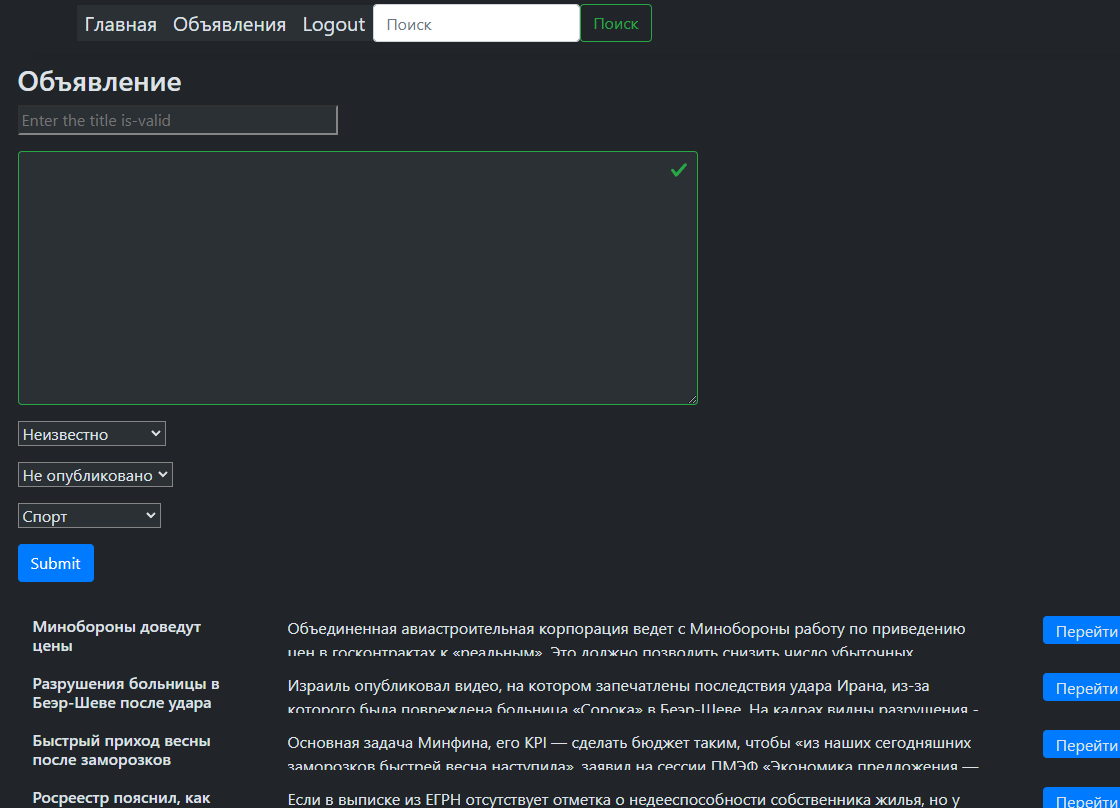
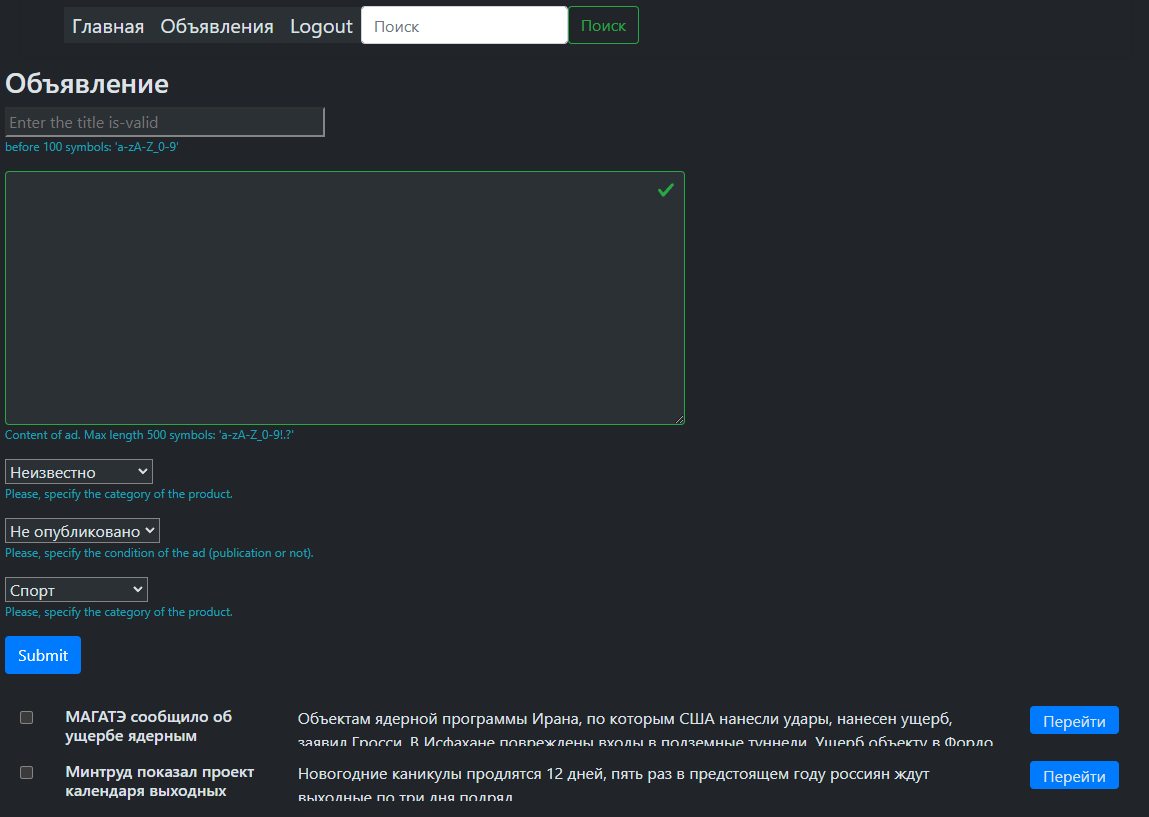
[dev]: static files updated and redis & cannels & daphne was installed

diff --git a/ads/static/ads/scripts/main-index-dc776ae2341fe91fb598.js b/ads/static/ads/scripts/main-index-dc776ae2341fe91fb598.js
@@ -105,7 +105,7 @@ eval("__webpack_require__.r(__webpack_exports__);\n/* harmony export */ __webpac
   \************************/
 /***/ ((__unused_webpack_module, __webpack_exports__, __webpack_require__) => {
 
-eval("__webpack_require__.r(__webpack_exports__);\n/* harmony import */ var _ADBS_handlers_HandlerFormAd__WEBPACK_IMPORTED_MODULE_0__ = __webpack_require__(/*! @ADBS-handlers/HandlerFormAd */ \"./src/ads/scripts/handlers/HandlerFormAd/index.ts\");\n/* harmony import */ var _ADS_scripts_services_taskPublicAllAd__WEBPACK_IMPORTED_MODULE_1__ = __webpack_require__(/*! @ADS/scripts/services/taskPublicAllAd */ \"./src/ads/scripts/services/taskPublicAllAd.ts\");\n/* harmony import */ var src_scripts_handleRequsetReceiveAd__WEBPACK_IMPORTED_MODULE_2__ = __webpack_require__(/*! src/scripts/handleRequsetReceiveAd */ \"./src/scripts/handleRequsetReceiveAd.ts\");\n/* harmony import */ var _ADS_scripts_services_taskPublicOnAd__WEBPACK_IMPORTED_MODULE_3__ = __webpack_require__(/*! @ADS/scripts/services/taskPublicOnAd */ \"./src/ads/scripts/services/taskPublicOnAd.ts\");\n/* harmony import */ var _ADS_scripts_services_taskChangeId__WEBPACK_IMPORTED_MODULE_4__ = __webpack_require__(/*! @ADS/scripts/services/taskChangeId */ \"./src/ads/scripts/services/taskChangeId.ts\");\n/* harmony import */ var _ADS_scripts_services_taskAddButton__WEBPACK_IMPORTED_MODULE_5__ = __webpack_require__(/*! @ADS/scripts/services/taskAddButton */ \"./src/ads/scripts/services/taskAddButton.ts\");\n/**\r\n * src\\scripts\\index.ts\r\n */\n\n\n\n\n// import deleteCheckboxOfAd from \"@ADS/scripts/services/taskDeleteCheckboxOfAdPage\";\n\n\nconst handlerCommmon = () => {\n  const formPagePromise = new Promise(resolve => {\n    (0,_ADBS_handlers_HandlerFormAd__WEBPACK_IMPORTED_MODULE_0__.formPage)();\n    resolve(true);\n  });\n\n  // publicAllAd - public all ads in HTML\n  const idName = 'ads-collections';\n  Promise.allSettled([(0,_ADS_scripts_services_taskChangeId__WEBPACK_IMPORTED_MODULE_4__.taskChangeIdDOM)(), formPagePromise, (0,_ADS_scripts_services_taskPublicAllAd__WEBPACK_IMPORTED_MODULE_1__[\"default\"])(), (0,src_scripts_handleRequsetReceiveAd__WEBPACK_IMPORTED_MODULE_2__.asyncGetListenerEvent)(\"click\", src_scripts_handleRequsetReceiveAd__WEBPACK_IMPORTED_MODULE_2__.asyncHandlerOneAdPublic, undefined, idName), (0,_ADS_scripts_services_taskPublicOnAd__WEBPACK_IMPORTED_MODULE_3__[\"default\"])(), (0,_ADS_scripts_services_taskAddButton__WEBPACK_IMPORTED_MODULE_5__[\"default\"])()]);\n\n  // deleteCheckboxOfAd\n};\ndocument.removeEventListener(\"DOMContentLoaded\", handlerCommmon);\ndocument.addEventListener(\"DOMContentLoaded\", handlerCommmon);\n\n//# sourceURL=webpack://ads/./src/ads/app.ts?");
+eval("__webpack_require__.r(__webpack_exports__);\n/* harmony import */ var _ADBS_handlers_HandlerFormAd__WEBPACK_IMPORTED_MODULE_0__ = __webpack_require__(/*! @ADBS-handlers/HandlerFormAd */ \"./src/ads/scripts/handlers/HandlerFormAd/index.ts\");\n/* harmony import */ var _ADS_scripts_services_taskPublicAllAd__WEBPACK_IMPORTED_MODULE_1__ = __webpack_require__(/*! @ADS/scripts/services/taskPublicAllAd */ \"./src/ads/scripts/services/taskPublicAllAd.ts\");\n/* harmony import */ var src_scripts_handleRequsetReceiveAd__WEBPACK_IMPORTED_MODULE_2__ = __webpack_require__(/*! src/scripts/handleRequsetReceiveAd */ \"./src/scripts/handleRequsetReceiveAd.ts\");\n/* harmony import */ var _ADS_scripts_services_taskPublicOnAd__WEBPACK_IMPORTED_MODULE_3__ = __webpack_require__(/*! @ADS/scripts/services/taskPublicOnAd */ \"./src/ads/scripts/services/taskPublicOnAd.ts\");\n/* harmony import */ var _ADS_scripts_services_taskChangeId__WEBPACK_IMPORTED_MODULE_4__ = __webpack_require__(/*! @ADS/scripts/services/taskChangeId */ \"./src/ads/scripts/services/taskChangeId.ts\");\n/**\r\n * src\\scripts\\index.ts\r\n */\n\n\n\n\n// import deleteCheckboxOfAd from \"@ADS/scripts/services/taskDeleteCheckboxOfAdPage\";\n\nconst handlerCommmon = () => {\n  const formPagePromise = new Promise(resolve => {\n    (0,_ADBS_handlers_HandlerFormAd__WEBPACK_IMPORTED_MODULE_0__.formPage)();\n    resolve(true);\n  });\n\n  // publicAllAd - public all ads in HTML\n  const idName = 'ads-collections';\n  Promise.allSettled([(0,_ADS_scripts_services_taskChangeId__WEBPACK_IMPORTED_MODULE_4__.taskChangeIdDOM)(), formPagePromise, (0,_ADS_scripts_services_taskPublicAllAd__WEBPACK_IMPORTED_MODULE_1__[\"default\"])(), (0,src_scripts_handleRequsetReceiveAd__WEBPACK_IMPORTED_MODULE_2__.asyncGetListenerEvent)(\"click\", src_scripts_handleRequsetReceiveAd__WEBPACK_IMPORTED_MODULE_2__.asyncHandlerOneAdPublic, undefined, idName), (0,_ADS_scripts_services_taskPublicOnAd__WEBPACK_IMPORTED_MODULE_3__[\"default\"])()]);\n\n  // deleteCheckboxOfAd\n};\ndocument.removeEventListener(\"DOMContentLoaded\", handlerCommmon);\ndocument.addEventListener(\"DOMContentLoaded\", handlerCommmon);\n\n//# sourceURL=webpack://ads/./src/ads/app.ts?");
 
 /***/ }),
 
@@ -149,13 +149,23 @@ eval("__webpack_require__.r(__webpack_exports__);\n/* harmony export */ __webpac
 
 /***/ }),
 
+/***/ "./src/ads/scripts/handlers/handlerDeleteLineOfAdsCollection/handlerEventRemove.ts":
+/*!*****************************************************************************************!*\
+  !*** ./src/ads/scripts/handlers/handlerDeleteLineOfAdsCollection/handlerEventRemove.ts ***!
+  \*****************************************************************************************/
+/***/ ((__unused_webpack_module, __webpack_exports__, __webpack_require__) => {
+
+eval("__webpack_require__.r(__webpack_exports__);\n/* harmony export */ __webpack_require__.d(__webpack_exports__, {\n/* harmony export */   handlerButtonClickEventRemove: () => (/* binding */ handlerButtonClickEventRemove)\n/* harmony export */ });\n/* harmony import */ var _ADS_scripts_services_tasksRemoveAds_getFlagId__WEBPACK_IMPORTED_MODULE_0__ = __webpack_require__(/*! @ADS/scripts/services/tasksRemoveAds/getFlagId */ \"./src/ads/scripts/services/tasksRemoveAds/getFlagId.ts\");\n/* harmony import */ var _ENV__WEBPACK_IMPORTED_MODULE_1__ = __webpack_require__(/*! @ENV */ \"./dotenv__.ts\");\n/**\r\n * src\\ads\\scripts\\handlers\\handlerDeleteLineOfAdsCollection\\handlerEventRemove.ts\r\n */\n\n\n\n\n/**\r\n * This  function is called when the user clicks on the button to remove the Ad of the collection\r\n * \r\n * @param item HTMLElement\r\n */\nfunction handlerButtonClickEventRemove(item) {\n  try {\n    const arrayOfIndexes = [];\n    item.onclick = async () => {\n      const arrayChoiseCheckbox = (0,_ADS_scripts_services_tasksRemoveAds_getFlagId__WEBPACK_IMPORTED_MODULE_0__[\"default\"])();\n      // REQUEST GET COLLECTION ADS\n      const url = new URL(\"\".concat(_ENV__WEBPACK_IMPORTED_MODULE_1__.URL_HOST_FOR_API, \"/api/v1/ads/index/0/\"));\n      // url.searchParams.set('data', JSON.stringify(arrayChoiseCheckbox))\n      const response = await fetch(url, {\n        method: \"DELETE\"\n      });\n      if (!response.ok) {\n        console.error(\"The Ads downloads data invalid!\");\n        return;\n      }\n      // RESEIVING RESPONS\n      // fetch(\"/ads\", {}\n    };\n  } catch (event) {\n    null;\n  }\n}\n\n//# sourceURL=webpack://ads/./src/ads/scripts/handlers/handlerDeleteLineOfAdsCollection/handlerEventRemove.ts?");
+
+/***/ }),
+
 /***/ "./src/ads/scripts/handlers/handlerDeleteLineOfAdsCollection/handlerRemoveAds.ts":
 /*!***************************************************************************************!*\
   !*** ./src/ads/scripts/handlers/handlerDeleteLineOfAdsCollection/handlerRemoveAds.ts ***!
   \***************************************************************************************/
 /***/ ((__unused_webpack_module, __webpack_exports__, __webpack_require__) => {
 
-eval("__webpack_require__.r(__webpack_exports__);\n/* harmony export */ __webpack_require__.d(__webpack_exports__, {\n/* harmony export */   handlerPressCheckboxRemoveAds: () => (/* binding */ handlerPressCheckboxRemoveAds)\n/* harmony export */ });\n/* harmony import */ var _services_taskAddButton__WEBPACK_IMPORTED_MODULE_0__ = __webpack_require__(/*! ../../services/taskAddButton */ \"./src/ads/scripts/services/taskAddButton.ts\");\n\nfunction handlerPressCheckboxRemoveAds() {\n  try {\n    const adsCollections = document.querySelector(\"#ads-collections\");\n    if (!adsCollections) {\n      return;\n    }\n    // publish button after click by a checkbox/flag (button for the removing an one ad)\n    adsCollections.removeEventListener(\"mousedown\", event => handlerAddButtonRemoveAds(event));\n    adsCollections.addEventListener(\"mousedown\", event => handlerAddButtonRemoveAds(event));\n  } catch (error) {\n    throw new Error(\"Error on the handlerPressCheckboxRemoveAds: \".concat(error));\n  }\n}\nlet ButtonTimeOut;\nfunction handlerAddButtonRemoveAds(event) {\n  if (event.target instanceof HTMLInputElement && event.target.name === \"remove\") {\n    if (ButtonTimeOut) {\n      clearTimeout(ButtonTimeOut);\n    }\n    ButtonTimeOut = setTimeout(_services_taskAddButton__WEBPACK_IMPORTED_MODULE_0__[\"default\"], 500);\n  }\n  ;\n}\n\n//# sourceURL=webpack://ads/./src/ads/scripts/handlers/handlerDeleteLineOfAdsCollection/handlerRemoveAds.ts?");
+eval("__webpack_require__.r(__webpack_exports__);\n/* harmony export */ __webpack_require__.d(__webpack_exports__, {\n/* harmony export */   handlerPressCheckboxRemoveAds: () => (/* binding */ handlerPressCheckboxRemoveAds)\n/* harmony export */ });\n/* harmony import */ var _services_tasksRemoveAds_taskAddButton__WEBPACK_IMPORTED_MODULE_0__ = __webpack_require__(/*! ../../services/tasksRemoveAds/taskAddButton */ \"./src/ads/scripts/services/tasksRemoveAds/taskAddButton.ts\");\n\nfunction handlerPressCheckboxRemoveAds() {\n  try {\n    const adsCollections = document.querySelector(\"#ads-collections\");\n    if (!adsCollections) {\n      return;\n    }\n    // publish button after click by a checkbox/flag (button for the removing an one ad)\n    adsCollections.removeEventListener(\"mousedown\", event => handlerAddButtonRemoveAds(event));\n    adsCollections.addEventListener(\"mousedown\", event => handlerAddButtonRemoveAds(event));\n  } catch (error) {\n    throw new Error(\"Error on the handlerPressCheckboxRemoveAds: \".concat(error));\n  }\n}\nlet ButtonTimeOut;\n\n/**\r\n * When user clicks by checkbox, the button for removing an would be published\r\n * @param event \r\n */\nfunction handlerAddButtonRemoveAds(event) {\n  if (event.target instanceof HTMLInputElement && event.target.name === \"remove\") {\n    if (ButtonTimeOut) {\n      clearTimeout(ButtonTimeOut);\n    }\n    const buttonHtmlItem = document.createElement('button');\n    ButtonTimeOut = setTimeout(() => (0,_services_tasksRemoveAds_taskAddButton__WEBPACK_IMPORTED_MODULE_0__[\"default\"])(buttonHtmlItem), 500);\n  }\n  ;\n}\n\n//# sourceURL=webpack://ads/./src/ads/scripts/handlers/handlerDeleteLineOfAdsCollection/handlerRemoveAds.ts?");
 
 /***/ }),
 
@@ -186,16 +196,6 @@ eval("__webpack_require__.r(__webpack_exports__);\n/* harmony export */ __webpac
 /***/ ((__unused_webpack_module, __webpack_exports__, __webpack_require__) => {
 
 eval("__webpack_require__.r(__webpack_exports__);\n/* harmony export */ __webpack_require__.d(__webpack_exports__, {\n/* harmony export */   asyncHandlerGetAdsCollection: () => (/* binding */ asyncHandlerGetAdsCollection)\n/* harmony export */ });\n/* harmony import */ var _ENV__WEBPACK_IMPORTED_MODULE_0__ = __webpack_require__(/*! @ENV */ \"./dotenv__.ts\");\n/* harmony import */ var _handlerDeleteLineOfAdsCollection_handlerRemoveAds__WEBPACK_IMPORTED_MODULE_1__ = __webpack_require__(/*! ../handlerDeleteLineOfAdsCollection/handlerRemoveAds */ \"./src/ads/scripts/handlers/handlerDeleteLineOfAdsCollection/handlerRemoveAds.ts\");\n/**\r\n * src\\scripts\\handlers\\handlersAdsCollection\\handlerRequestlCollection.ts\r\n * */\n\n\n\n/**\r\n * This function is download the collection of the ads from server.\r\n * @returns {data: AdLinesCollection} | void\r\n */\nasync function asyncHandlerGetAdsCollection() {\n  try {\n    // REQUEST GET COLLECTION ADS\n    const url = new URL(\"\".concat(_ENV__WEBPACK_IMPORTED_MODULE_0__.URL_HOST_FOR_API, \"/api/v1/ads/index/\"));\n    const response = await fetch(url, {\n      method: \"GET\"\n    });\n    if (!response.ok) {\n      console.error(\"The Ads downloads data invalid!\");\n      return;\n    }\n    // RESEIVING RESPONSE DATA IN JSON TYPE\n    const responseData = await response.json();\n    const data = JSON.parse(responseData);\n    (0,_handlerDeleteLineOfAdsCollection_handlerRemoveAds__WEBPACK_IMPORTED_MODULE_1__.handlerPressCheckboxRemoveAds)();\n    return data;\n  } catch (err) {\n    console.log(\"Error: \".concat(err.message));\n  }\n  return;\n}\n\n//# sourceURL=webpack://ads/./src/ads/scripts/handlers/handlersAdsCollection/handlerRequestlCollection.ts?");
-
-/***/ }),
-
-/***/ "./src/ads/scripts/services/taskAddButton.ts":
-/*!***************************************************!*\
-  !*** ./src/ads/scripts/services/taskAddButton.ts ***!
-  \***************************************************/
-/***/ ((__unused_webpack_module, __webpack_exports__, __webpack_require__) => {
-
-eval("__webpack_require__.r(__webpack_exports__);\n/* harmony export */ __webpack_require__.d(__webpack_exports__, {\n/* harmony export */   \"default\": () => (__WEBPACK_DEFAULT_EXPORT__)\n/* harmony export */ });\n/**\r\n * src\\ads\\scripts\\services\\taskAddButton.ts\r\n */\n\n/**\r\n * This task add the button (the delete) when the user has choices checkbox selected.\r\n * @returns \r\n */\nconst taskAddButton = () => {\n  const buttonHtmlItem = document.createElement('button');\n  buttonHtmlItem.innerHTML = 'Удалить';\n  buttonHtmlItem.className = 'delete-button';\n  const idAdsCollection = document.getElementById('ads-collections');\n  if (!idAdsCollection) {\n    return;\n  }\n  try {\n    // Checking, would be the button is inserted earlier or not\n    const ArrayButtonHtmlElement = idAdsCollection.getElementsByClassName(\"delete-button\");\n\n    // CHECK THE LINE OF AD, we have a select checkbox or not\n    const choiseCheckbox = [];\n    const arrayLiHtml = document.querySelectorAll(\"#ads-collections li input\");\n    arrayLiHtml.forEach(item => {\n      if (item.checked) {\n        choiseCheckbox.push(item);\n      }\n    });\n    if (choiseCheckbox.length === 0) {\n      // const buttonHtmlElement = idAdsCollection.getElementsByClassName(\"delete-button\");\n      if (ArrayButtonHtmlElement.length > 0) {\n        ArrayButtonHtmlElement[0].remove();\n      }\n      return;\n    }\n    if (ArrayButtonHtmlElement.length === 0) {\n      idAdsCollection.appendChild(buttonHtmlItem);\n    }\n  } catch (event) {\n    throw new Error(\"[Error in taskAddButton]: \".concat(event));\n  }\n};\n/* harmony default export */ const __WEBPACK_DEFAULT_EXPORT__ = (taskAddButton);\n\n//# sourceURL=webpack://ads/./src/ads/scripts/services/taskAddButton.ts?");
 
 /***/ }),
 
@@ -236,6 +236,26 @@ eval("__webpack_require__.r(__webpack_exports__);\n/* harmony export */ __webpac
 /***/ ((__unused_webpack_module, __webpack_exports__, __webpack_require__) => {
 
 eval("__webpack_require__.r(__webpack_exports__);\n/* harmony export */ __webpack_require__.d(__webpack_exports__, {\n/* harmony export */   \"default\": () => (__WEBPACK_DEFAULT_EXPORT__)\n/* harmony export */ });\n/* harmony import */ var src_ads_scripts_services_taskCreateOneElement__WEBPACK_IMPORTED_MODULE_0__ = __webpack_require__(/*! src/ads/scripts/services/taskCreateOneElement */ \"./src/ads/scripts/services/taskCreateOneElement.ts\");\n/* harmony import */ var src_ads_scripts_handlers_handlerSingleAd_handlerGetOneAd__WEBPACK_IMPORTED_MODULE_1__ = __webpack_require__(/*! src/ads/scripts/handlers/handlerSingleAd/handlerGetOneAd */ \"./src/ads/scripts/handlers/handlerSingleAd/handlerGetOneAd.ts\");\n/**\r\n * src\\scripts\\services\\taskPublicOnAd.ts\r\n */\n\n\n\nconst asyncTaskPublicOneAd = async () => {\n  // GET ID OF AD FROM THE URL\n  const pathname = window.location.pathname;\n  const index = pathname.split(\"/\")[4];\n  if (!index) {\n    return;\n  }\n  // GET DATA OF AD FROM THE SERVER\n  const response = await (0,src_ads_scripts_handlers_handlerSingleAd_handlerGetOneAd__WEBPACK_IMPORTED_MODULE_1__.asyncHandlerRequestGetOneAd)('/api/v1/ads/index/', index);\n  if (!response) {\n    console.error(\"The received data from server is invalid!\");\n    return;\n  }\n  const sectionHtml = document.getElementById(\"ad-page-container\");\n  if (!sectionHtml) {\n    console.error(\"The section HTML is invalid!\");\n    return;\n  }\n  // PUBLIC AD ON AD PAGE\n  (0,src_ads_scripts_services_taskCreateOneElement__WEBPACK_IMPORTED_MODULE_0__[\"default\"])(sectionHtml, response.data[0]);\n  const buttonHtml = document.querySelector(\".ad-view-footer button\");\n  if (!buttonHtml) {\n    return;\n  }\n  buttonHtml.remove();\n};\n/* harmony default export */ const __WEBPACK_DEFAULT_EXPORT__ = (asyncTaskPublicOneAd);\n\n//# sourceURL=webpack://ads/./src/ads/scripts/services/taskPublicOnAd.ts?");
+
+/***/ }),
+
+/***/ "./src/ads/scripts/services/tasksRemoveAds/getFlagId.ts":
+/*!**************************************************************!*\
+  !*** ./src/ads/scripts/services/tasksRemoveAds/getFlagId.ts ***!
+  \**************************************************************/
+/***/ ((__unused_webpack_module, __webpack_exports__, __webpack_require__) => {
+
+eval("__webpack_require__.r(__webpack_exports__);\n/* harmony export */ __webpack_require__.d(__webpack_exports__, {\n/* harmony export */   \"default\": () => (__WEBPACK_DEFAULT_EXPORT__)\n/* harmony export */ });\n/**\r\n * src\\ads\\scripts\\services\\tasksRemoveAds\\getFlagId.ts\r\n */\n\n/***\r\n * This function gather all the flag/checkboxes.\r\n * After this, we have array of the highlighted flage.\r\n * @return {string[]} - array of ctrings\r\n */\nfunction taskGetFlagId() {\n  // CHECK THE LINE OF AD, we have a select checkbox or not\n  const choiseCheckbox = [];\n  try {\n    const arrayLiHtml = document.querySelectorAll(\"#ads-collections li input\");\n    // FILTER OF CHECKBOX\n    arrayLiHtml.forEach(item => {\n      if (item.checked) {\n        choiseCheckbox.push(item.getAttribute('data-ad'));\n      }\n    });\n  } catch (error) {\n    if (error) {\n      throw new Error(\"[Error in getFlagId]: \".concat(error));\n    }\n  }\n  return choiseCheckbox;\n}\n/* harmony default export */ const __WEBPACK_DEFAULT_EXPORT__ = (taskGetFlagId);\n\n//# sourceURL=webpack://ads/./src/ads/scripts/services/tasksRemoveAds/getFlagId.ts?");
+
+/***/ }),
+
+/***/ "./src/ads/scripts/services/tasksRemoveAds/taskAddButton.ts":
+/*!******************************************************************!*\
+  !*** ./src/ads/scripts/services/tasksRemoveAds/taskAddButton.ts ***!
+  \******************************************************************/
+/***/ ((__unused_webpack_module, __webpack_exports__, __webpack_require__) => {
+
+eval("__webpack_require__.r(__webpack_exports__);\n/* harmony export */ __webpack_require__.d(__webpack_exports__, {\n/* harmony export */   \"default\": () => (__WEBPACK_DEFAULT_EXPORT__)\n/* harmony export */ });\n/* harmony import */ var _ADS_scripts_handlers_handlerDeleteLineOfAdsCollection_handlerEventRemove__WEBPACK_IMPORTED_MODULE_0__ = __webpack_require__(/*! @ADS/scripts/handlers/handlerDeleteLineOfAdsCollection/handlerEventRemove */ \"./src/ads/scripts/handlers/handlerDeleteLineOfAdsCollection/handlerEventRemove.ts\");\n/* harmony import */ var _getFlagId__WEBPACK_IMPORTED_MODULE_1__ = __webpack_require__(/*! ./getFlagId */ \"./src/ads/scripts/services/tasksRemoveAds/getFlagId.ts\");\n/**\r\n * src\\ads\\scripts\\services\\taskAddButton.ts\r\n */\n\n\n\n\n/**\r\n * This task add the button (the delete) when the user has choices checkbox selected.\r\n * @param {HTMLButtonElement} buttonHtmlItem. We created the button html elementand and give to the entry-point. It's 'buttonHtmlItem' variable.\r\n * @returns void\r\n */\nconst taskAddButton = buttonHtmlItem => {\n  buttonHtmlItem.innerHTML = 'Удалить';\n  buttonHtmlItem.className = 'delete-button';\n  const idAdsCollection = document.getElementById('ads-collections');\n  if (!idAdsCollection) {\n    return;\n  }\n  try {\n    // Checking, would be the button is inserted earlier or not\n    const arrayButtonHtmlElement = idAdsCollection.getElementsByClassName(\"delete-button\");\n    // Getitng the highlighted checkboxes \n    const arrayChoiseCheckbox = (0,_getFlagId__WEBPACK_IMPORTED_MODULE_1__[\"default\"])();\n    if (arrayChoiseCheckbox.length === 0) {\n      // const buttonHtmlElement = idAdsCollection.getElementsByClassName(\"delete-button\");\n      if (arrayButtonHtmlElement.length > 0) {\n        arrayButtonHtmlElement[0].remove();\n      }\n      return;\n    }\n    if (arrayButtonHtmlElement.length === 0) {\n      (0,_ADS_scripts_handlers_handlerDeleteLineOfAdsCollection_handlerEventRemove__WEBPACK_IMPORTED_MODULE_0__.handlerButtonClickEventRemove)(buttonHtmlItem);\n      idAdsCollection.appendChild(buttonHtmlItem);\n    }\n  } catch (event) {\n    throw new Error(\"[Error in taskAddButton]: \".concat(event));\n  }\n};\n/* harmony default export */ const __WEBPACK_DEFAULT_EXPORT__ = (taskAddButton);\n\n//# sourceURL=webpack://ads/./src/ads/scripts/services/tasksRemoveAds/taskAddButton.ts?");
 
 /***/ }),
 

diff --git a/project/settings.py b/project/settings.py
@@ -38,6 +38,7 @@ ALLOWED_HOSTS = [
 ]
 
 INSTALLED_APPS = [
+    "daphne",
     'django.contrib.admin',
     'rest_framework',
     'bootstrap4',
@@ -90,8 +91,8 @@ TEMPLATES = [
     },
 ]
 
-WSGI_APPLICATION = 'project.wsgi.application'
-
+# WSGI_APPLICATION = 'project.wsgi.application'
+ASGI_APPLICATION = "project.asgi.application"
 
 # Database
 # https://docs.djangoproject.com/en/4.2/ref/settings/#databases
@@ -306,4 +307,31 @@ SIMPLE_JWT = {
     "ACCESS_TOKEN_LIFETIME": timedelta(minutes = 5),
     "REFRESH_TOKEN_LIFETIME": timedelta(days=1),
     "SIGNING_KEY": SECRET_KEY,
+}
+
+
+#"""REDIS"""
+"""REDIS"""
+CACHES = {
+    "default": {
+        "BACKEND": "django_redis.cache.RedisCache",
+        "LOCATION": "redis://127.0.0.1:6379/0",  # 1 - номер базы Redis
+        "OPTIONS": {
+            "CLIENT_CLASS": "django_redis.client.DefaultClient",
+            "SOCKET_CONNECT_TIMEOUT": 5,  # seconds
+            "SOCKET_TIMEOUT": 5,  # seconds
+        },
+        "KEY_PREFIX": "server_",  # префикс для всех ключей
+
+    }
+}
+
+# Необязательно: использовать Redis для хранения сессий
+SESSION_ENGINE = "django.contrib.sessions.backends.cache"
+SESSION_CACHE_ALIAS = "default"
+
+"""DEBUG TOOLBAR daphne"""
+
+DEBUG_TOOLBAR_CONFIG = {
+    "SHOW_TOOLBAR_CALLBACK": lambda request: True,
 }

diff --git a/ads/api_views/api_ads.py b/ads/api_views/api_ads.py
@@ -4,9 +4,11 @@ ads/api_views/api_ads.py
 
 import json
 import logging
-from asgiref.sync import sync_to_async
+from asgiref.sync import sync_to_async, async_to_sync
+from django.db.models.expressions import result
 from django.http import JsonResponse
 from pontos.github.models import User
+from rest_framework.decorators import action
 
 from ads.api_views.api_files import async_serializer_validate
 from ads.serialisers_all.ad.serializers import AdSerializer
@@ -124,6 +126,12 @@ class AsyncAdsView(viewsets.ModelViewSet):
             json.dumps({"detail": ["User is not authenticated or pk is undefined."]}),
             status=status.HTTP_401_UNAUTHORIZED,
         )
+
+    async def destroy(self, request, *args, **kwargs):
+        pass
+        instance = await self.get_object()
+        responce = await super().destroy(request, *args, **kwargs)
+        return responce
 
     async def create(self, request, *args, **kwargs):
         """

diff --git a/ads/api_views/api_ads_delete.py b/ads/api_views/api_ads_delete.py
@@ -1,0 +1,19 @@
+from adrf import generics
+
+from ads.models import Ad
+from ads.serialisers_all.ad.serializers import AdSerializer
+
+
+class AsyncAdsDelete(generics.DestroyAPIView):
+    queryset = Ad.objects.all()
+    serializer_class = AdSerializer
+
+    # async def get_extra_actions(self):
+    #     return
+    async def destroy(self, request, *args, **kwargs):
+        pass
+        # if request.user.is_authenticated:
+        #     pass
+        # else:
+        #     return Response(status=status.HTTP_401_UNAUTHORIZED)
+        return self.destroy(request, *args, **kwargs)

diff --git a/ads/api_urls.py b/ads/api_urls.py
@@ -6,6 +6,7 @@ from rest_framework.routers import DefaultRouter
 
 # https://www.django-rest-framework.org/tutorial/6-viewsets-and-routers/#using-routers
 from ads.api_views.api_ads import AsyncAdsView
+from ads.api_views.api_ads_delete import AsyncAdsDelete
 from ads.api_views.api_files import FileImageViewSet
 
 
@@ -13,4 +14,5 @@ app_name = "ads_app"
 
 router = DefaultRouter()
 router.register("index", AsyncAdsView, basename="ads")
+# router.register("remove", AsyncAdsDelete, basename="ads_delete")
 router.register("image", FileImageViewSet, basename="image")

diff --git a/project/asgi.py b/project/asgi.py
@@ -9,8 +9,16 @@ https://docs.djangoproject.com/en/4.2/howto/deployment/asgi/
 
 import os
 
+from channels.routing import ProtocolTypeRouter
 from django.core.asgi import get_asgi_application
 
-os.environ.setdefault('DJANGO_SETTINGS_MODULE', 'project.settings')
+os.environ.setdefault("DJANGO_SETTINGS_MODULE", "project.settings")
 
 application = get_asgi_application()
+
+application = ProtocolTypeRouter(
+    {
+        "http": application,
+        # Just HTTP for now. (We can add other protocols later.)
+    }
+)

diff --git a/README.md b/README.md
@@ -1,4 +1,5 @@
 [ENG README](./README_ENG.md)
+
 # Зависимости:
 
 ```tx
@@ -53,6 +54,7 @@ You can, now:
 Логин Sergey\
 Пароль 123456789
 
+---
 # Доска объявлений
 Работа - по мере поступления задачи.\
 [Frontend](https://github.com/Tryd0g0lik/adboard_frotend)\
@@ -61,6 +63,7 @@ Backend делится на моддули:
 - пользователь (adboard для регистрации, активации);
 - создать объявлеие, видеть созданное объявление в списке объявлений, открыть объявление в отдельной странице.
 
+---
 ## Ограничения
 К базовым командам django:
 ```bash
@@ -101,9 +104,11 @@ permissions = [
 - "`project/user_of_request.py`" класс "`UsageUsers`" по "`request.user.id`" получает пользователя из db.
 Если всё  ОК , то данные идут дальше по "`ads/api_views/api_ads.py::AsyncAdsView.create`"
 
+---
 ### Пользователь
 - формы пользователя c валидацией в которые включают регулярные выражения (frontend). 
 
+---
 #### Login форма
 
 Отправляем на сервер\ 
@@ -116,9 +121,11 @@ permissions = [
 ```
 Пароль пользователя - хешируем.
 
+---
 ### Главная
 ![Main](./img/main.png)
 
+---
 ### Регистрация
 
 ![Registration](./img/register.png)\
@@ -126,6 +133,7 @@ permissions = [
 На сервере проверяется пароль, в состоянии хеша.\
 В ответе получаем 201 или 401 код.
 
+---
 ### Авторизация
 
 Если в форму вносим не валидные  данные, получаем ошибку\
@@ -140,6 +148,7 @@ permissions = [
 ```
 Токены сохраняются в COOKIE, без права вызова через JS.
 
+---
 ### После авторизации
 Пользователь происходит рендерится на главную страницу.\
 Меню получает дополнительные кнопки и форма поиска.\
@@ -149,6 +158,7 @@ Note: Поиск не рабочий.
 
 Путешествие по сервису сопровождается токенами из COOKIE.
 
+---
 ### Объявления*
 Загрузка страницы создает список объявлений. Список:
  - доступен пользователю если авторизован
@@ -163,11 +173,15 @@ Note: Поиск не рабочий.
 
 Note: Чат не рабочий
 
+Если выделить строку флагом, получаем кнопку - удалить (объявления).\
+Убрать все флажки, и кнопка - удалить исчезает.\
+![remove_button](./img/remove_button.png)
+
+---
 ## DB
 ![db graph](./img/db_ads.png)
 
-
-
+---
 ## TEST PLAYWRIGHT
 Ворма регистрации пользователя
 - "`username`" - удалить пробелы в начале и в конце строк. +
